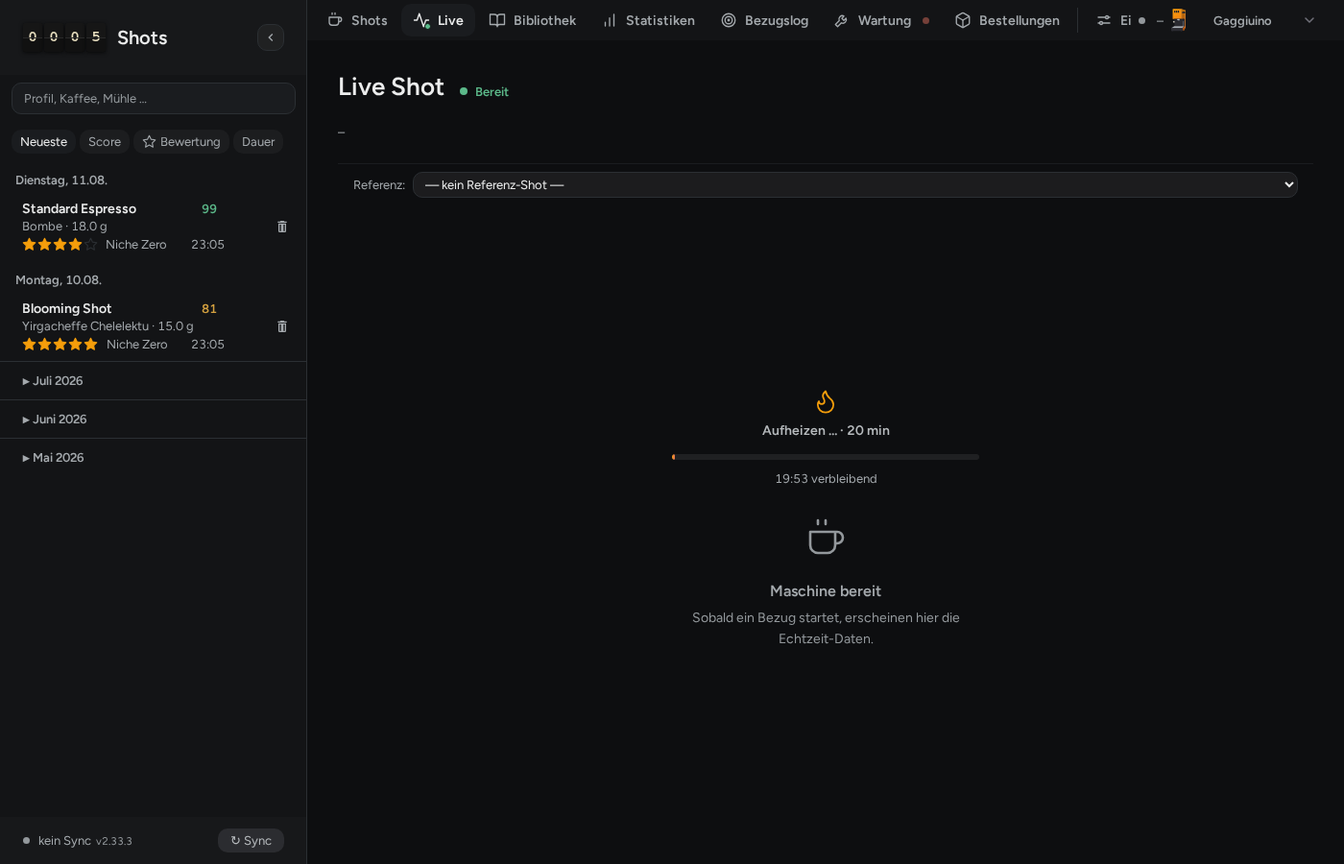
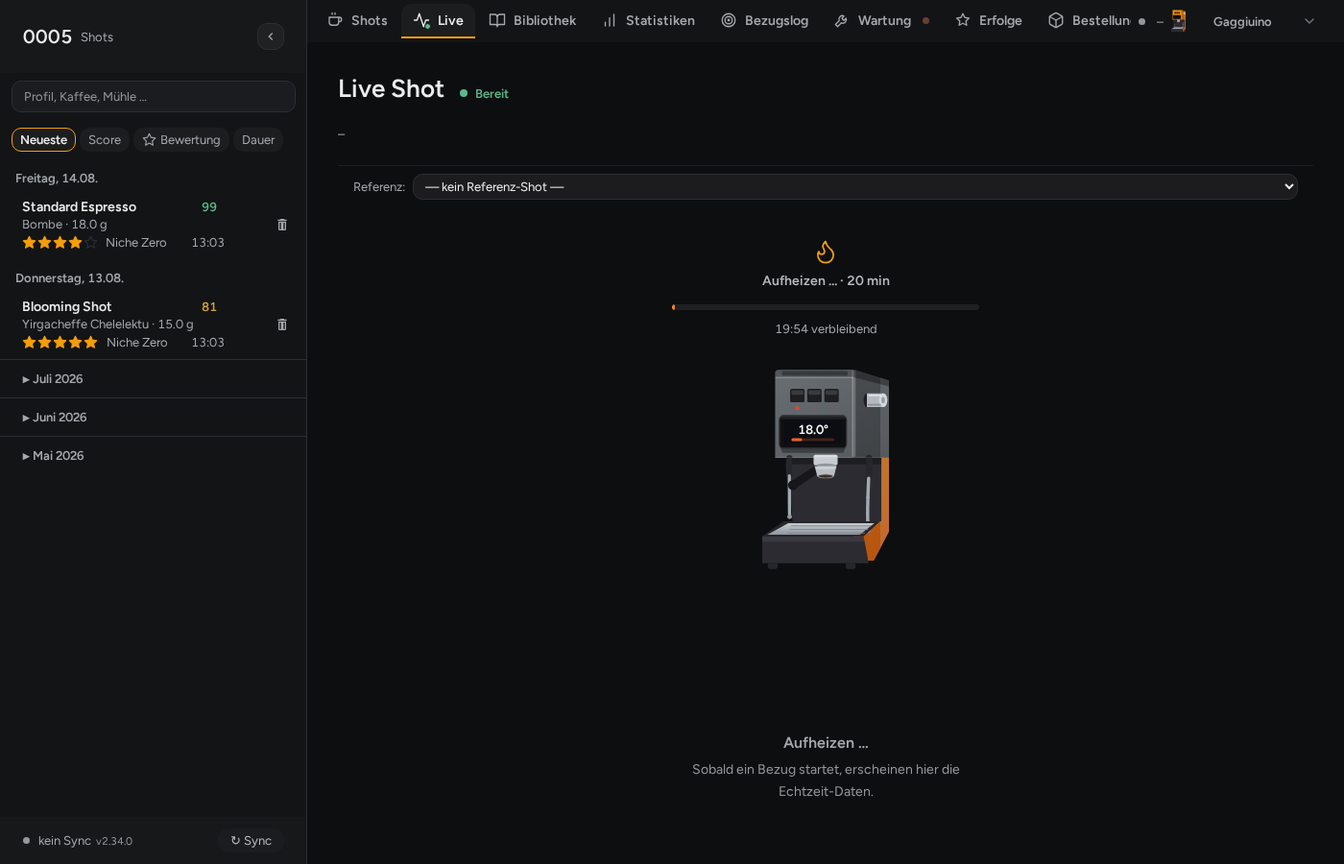
Release v2.34.0: finalize CHANGELOG, bump version, refresh docs/screenshots/dev-stats
Version bump is minor (2.33.4 -> 2.34.0), not the patch bump the last
individual commit left in package.json/config.yaml/constants.js: the
Unreleased section folds in the whole "Instrument" redesign round
(#811-814, #816-817, #820, #822-823) plus the standalone-Docker-install
release (#764, shipped in-repo as 2.33.0-2.33.3 but never tagged) --
substantial new user-facing capability, not a pure fix, per this repo's
own versioning rule.

- CHANGELOG.md: close out [Unreleased] as [2.34.0], open a fresh
  Unreleased section
- lib/whats-new.js: fold the 2.33.4 entry into a 2.34.0 highlight set
  covering the redesign + achievements
- README.md: add the Achievements feature row
- DOCS.md/DOCS.de.md: add the Achievements section + Features-table row
  (bilingual, in sync)
- docs/screenshots/*.png: regenerated against the shipped UI
- scripts/dev-stats.mjs: bump git()'s execSync maxBuffer from Node's 1 MB
  default to 64 MB -- this round's unusually long commit bodies made
  `git log --shortstat` exceed it and fail with ENOBUFS
- DEVELOPMENT.md, docs/dev-stats/*.png: regenerated (companion repos
  verified to have no unpushed commits first, so nothing held-back leaks
  into the public stats)

diff --git a/gaggiuino-local-profiler/lib/whats-new.js b/gaggiuino-local-profiler/lib/whats-new.js
@@ -18,8 +18,10 @@
 // caps it defensively so an out-of-order manual edit can't silently show
 // entries in the wrong order or let the list grow unbounded.
 const WHATS_NEW_ENTRIES = [
-    { version: '2.33.4', date: '2026-08-16', highlights: [
-        'Sidebar shot counter flattened from a mechanical split-flap odometer to plain text, matching the app\'s current design.',
+    { version: '2.34.0', date: '2026-08-16', highlights: [
+        '"Instrument" redesign: a cooler graphite look throughout the app, drawn icons in place of emoji, and a calmer, less boxy shot view with a guided metric line and a plain-text verdict.',
+        'Added the achievement stamp card: a browsable catalogue of 54 badges across 7 categories, unlocked automatically as you brew.',
+        'The machine icon (Settings, topbar, Live view) now draws the right body for your machine type, and toggle buttons/the sidebar shot counter got a lighter, less mechanical look.',
     ] },
     { version: '2.33.3', date: '2026-08-11', highlights: [
         'Live view updates faster on a fresh sensor reading: a WebSocket or MQTT sample now pushes to the Live tab instantly instead of waiting for the next 1-second poll.',

diff --git a/gaggiuino-local-profiler/lib/constants.js b/gaggiuino-local-profiler/lib/constants.js
@@ -3,7 +3,7 @@ if (typeof File === 'undefined') {
     try { global.File = require('buffer').File; } catch { global.File = class File {}; }
 }
 
-const GLP_VERSION  = '2.33.4';
+const GLP_VERSION  = '2.34.0';
 const DEFAULT_PORT = 8099;
 
 const DATA_DIR             = '/data';

diff --git a/gaggiuino-local-profiler/DOCS.de.md b/gaggiuino-local-profiler/DOCS.de.md
@@ -287,6 +287,7 @@ Eine Alternative zur obigen WebSocket-Verbindung, um Live-Sensor-/Systemdaten vo
 | **Bibliothek** | Kaffeebohnen- und Mühlenkatalog plus **Rezepte**-Tab. Bohnenkarten zeigen die **Herkunft** als eigene Eyebrow-Zeile über dem Bohnennamen (serifenbetont beim Crema-Akzent-Theme — siehe [Farbschema (Akzentfarbe)](#farbschema-akzentfarbe)), Geschmacks-Tags als zurückhaltende Outline-Pills, und einen kleinen proportionalen **Restbestand-Balken** neben der bestehenden Gramm-Angabe. Bohnenkarten zeigen außerdem eine **Sterne-Bewertung** (Mittelwert aus den Shot-Bewertungen dieser Bohne, rein berechnet — kein manuelles Feld), eine **beste Mühlen+Mahlgrad-Kombination** (z. B. „Beste Kombi: Niche Zero @ 18 · Ø Score 92" — berechnet über den gesamten Shot-Verlauf der Bohne, gruppiert nach Mühle und Mahlgrad, angezeigt sobald mindestens 3 Shots dieselbe Kombination teilen, damit der Durchschnitt kein Zufallstreffer ist) und ein **Röstfrische-Badge** (Tage seit Röstung, eingefärbt nach Degassing-/Peak-/Fading-Fenster, aus dem Röstdatum der aktiven Packung — ausgeblendet sobald der Restbestand einer bestandsgeführten Bohne null erreicht). Bohnen unterstützen: **Herkunftsländer** (eines oder mehrere, aus einer Liste von Kaffeeanbauländern ausgewählt und als Chips mit Flagge und lokalisiertem Namen angezeigt — eine Bohne mit mehr als einem Herkunftsland ist ein Blend, mit optionalem prozentualem Gewichtungsanteil pro Land für die anteilige Aufteilung auf der Kaffee-Weltkarte in Statistiken), **Spezies** (Arabica / Robusta / Liberica / Blend — festes Dropdown, nur manuell erfassbar), eine **Speciality/Normal-Kategorie** (zweiwertiges Dropdown, nur manuell erfassbar, Standard „Normal" — erlaubt Nicht-Experten, die Bohnenliste der Bestellkarte nach Alltags- vs. ungewöhnlichen/hochwertigen Bohnen zu gruppieren), **Varietät/Sorte** (Bourbon, Geisha, Typica, Caturra, SL28, … mit Vorschlägen — getrennt von der Spezies, da z.B. Red Bourbon eine Sorte innerhalb von Arabica ist), **Aufbereitung** (Washed, Natural, Honey, Anaerobic, … mit Vorschlägen), **Geschmacksnoten als Tags** (Chips-Eingabe; Importe befüllen sie automatisch, das Notizfeld bleibt für persönliche Anmerkungen — siehe auch das **Aroma-Rad** unten), **Röstung** (Espresso / Filter / Omni, aus Shop-Tags importiert), **Anbau-Region** (Freitext, serverseitig via Nominatim zu Kartenkoordinaten geocodet), ein beim Import einmalig heruntergeladenes **Produktbild** (als Thumbnail und im Aroma-Rad angezeigt, ein Klick darauf öffnet es als Vollbild-Lightbox wie bei Shot-Fotos) — oder manuell hochgeladen, falls der automatische Download fehlschlägt (öffnet denselben Zoom/Pan-Zuschnitt-Editor wie bei Shot-Fotos), optionale Felder für **Höhenlage, Importeur, Ernte, Preis, Produzent und Zertifizierung** (nur angezeigt wenn gesetzt; Höhenlage/Importeur/Ernte/Preis werden importiert, wo der Shop sie liefert), eine manuelle **Zubereitungsempfehlung** (Temperatur, Verhältnis, Zeit, Hinweis — nur angezeigt wenn gesetzt; keine Import-Quelle liefert das als strukturierte Daten), Entkoffeiniert-Flag, Chargen-Tracking (Röstdatum — über ein natives Datumsfeld mit „Heute"-Kurzwahl erfasst — Anfangsgewicht und optionale **Chargennummer** pro Packung, nur manuell erfassbar, Verbrauch pro Packung und Gesamtverbrauch über alle Packungen), **Einfrieren einzelner Portionen** (eine oder mehrere Portionen einer Packung mit Grammangabe, Portionsanzahl und optionalem vergangenem Einfrierdatum einfrieren; die Röstfrische-Uhr einer eingefrorenen Portion pausiert für die Dauer des Einfrierens und läuft nach dem Auftauen weiter — bei einer Mehr-Portionen-Charge wird jeweils eine Portion einzeln aufgetaut statt die ganze Charge auf einmal abzuschließen, oder Anzahl/Gewicht/Einfrierdatum einer Portion nachträglich korrigieren, falls falsch erfasst; das Frost-Badge zeigt das Einfrierjahr sowie verbleibende/gesamte Portionsanzahl), ein manueller **Aktiv/Inaktiv-Umschalter** (Auge/Auge-durchgestrichen-Button neben Bearbeiten/Löschen), um eine Bohne aus der Bestellkarten-Auswahl auszuschließen, ohne sie zu löschen oder den Bestand anzurühren — unabhängig vom Bestand wird die Karte einer deaktivierten Bohne abgedunkelt und mit einem „Deaktiviert"-Badge versehen, bleibt aber vollständig sichtbar und bearbeitbar, URL-Import von kaffeebraun.com, hoppenworth-ploch.de und elbgold.com (jeweils einzeln deaktivierbar) plus generischem Fallback (Shopify/JSON-LD/Webseiten-Metadaten) für jeden anderen Shop, mit Einstellungen-Panel für eigene Shopify-Shop-Domains, Barcode-Scan, QR-Code. Mühlen unterstützen optional **Mahlwerk-Typ** (mit Vorschlägen), **Kaufdatum** (natives Datumsfeld), ein direkt hochgeladenes **Foto** (zugeschnitten über denselben Zoom/Pan-Editor, ein Klick auf das Thumbnail öffnet es als Vollbild-Lightbox wie bei Shot- und Bohnenfotos) und eine **Mahlscheiben-Verschleiß-Anzeige**: eine Zeile „🔩 N Shots · X g/kg seit letztem Mahlscheiben-Wechsel" (über annotierte Shots nach Mühlenname gematcht, Dosis summiert) mit einem „Mahlscheiben erneuert"-Button zum Zurücksetzen des Zählers — getrennt vom kalender-/shot-basierten Reinigungs-Wartungssystem, da Mahlscheiben durch kumulativen Durchsatz stumpf werden, nicht durch Kalenderzeit. Rezepte speichern Brühmethode (Espresso, AeroPress, V60, French Press, Moka, Cold Brew), Dosis, Ausbeute, Zeit, Wassertemperatur, Wassermenge, Eismenge, Mahlgrad, Quellenlink und Workflow-Schritte. Zwei weitere Tabs, **Siebe** und **Puck Screens**, katalogisieren deinen Sieb- und Puck-Screen-Bestand nach demselben Liste-plus-Bearbeiten/Löschen-plus-Foto-Muster wie Mühlen: Siebe tragen einen **Wandtyp** (solid/precision/dual-wall) und eine **Form** (rund/D-Form); Puck Screens tragen eine **Dicke** — beides als feste Dropdown-Felder. Beide lassen sich im Shot-Annotationsbereich neben der Bohnenauswahl mit einem Shot verknüpfen, nach demselben ID-basierten Prinzip wie bei Bohnen, und erscheinen dann zusammen mit dem Bohnen-/Mühlen-Chip auf der Rezeptkarte des Shots, im CSV-Export und im `.shot`-Label-Export. Ein **Profile**-Tab verwaltet Gaggiuino-Maschinenprofile — siehe [Maschinenprofil-Editor](#maschinenprofil-editor) unten. |
 | **Einwählen** | Einwähl-Assistent: Ziel-Shot mit aktuellen Versuchen vergleichen. Der Mahlgrad-Hinweis in der Shot-Ansicht markiert zusätzlich Brew-Ratios außerhalb des klassischen Espresso-Fensters (1:1.8–2.2), wenn die Dauer selbst passt. Ein **geführter Einwähl-Assistent** — siehe [unten](#geführter-einwähl-assistent) — führt Schritt für Schritt durch den gesamten Kreislauf aus Mahlgrad einstellen → Shot ziehen → Auswertung → nächster Mahlgrad. |
 | **Wartung** | Ein Dashboard-Überblick: **Summenkacheln** (Anzahl Fällig / Bald fällig / OK plus Protokoll-Einträge dieses Jahr) und ein **„Als Nächstes"-Banner**, das die dringendste fällige Aufgabe samt Maschine nennt, mit direktem Erledigt-Button (nur sichtbar, wenn tatsächlich etwas fällig ist). Fünf Maschinenwartungs-Erinnerungen (Entkalken, Backflush, Gruppenkopf-Service, Dichtungen & Siebe, Wasserfilter) plus ein eigener Reinigungsplan pro Mühle, dargestellt als kompakte Kacheln (Status-Pill, Fortschrittsbalken, Maschinen-Tag). In [Multi-Maschinen](#multi-maschinen-modus-v200)-Setups scopt ein **Maschinenfilter** (lokal für diese Ansicht, unabhängig vom Topbar-Umschalter) das gesamte Dashboard auf eine Maschine oder „Alle" — Entkalken/Backflush/Gruppenkopf/Dichtungen werden **pro Maschine** geführt; Wasserfilter und Mühlenreinigung bleiben **global** („geteilt"-Tag, nur einmal angezeigt), da diese Ausrüstung tatsächlich maschinenübergreifend geteilt wird. Schwellenwert-Eingabe, Shots/Tage-Umschalter und die **geführte Anleitung** (Schritt-für-Schritt-Checkliste, die den Erledigt-Button erst freischaltet, wenn alle Schritte abgehakt sind) jeder Kachel liegen hinter einem „Details"-Ausklapper statt dauerhaft sichtbar zu sein. Unterhalb der Kacheln: ein **Wartungsprotokoll** als Tabelle (Datum, Aufgabe, Maschinen-Badge, Shot-Anzahl zum Zeitpunkt, Notiz), gefiltert nach dem gewählten Scope. Einträge entstehen automatisch beim „Jetzt erledigt"-Klick; vergangene Wartungen können per Formular (Aufgabe, Datum, Notizen) nachgetragen werden. Einzelne Einträge sind löschbar. Gespeichert in `/data/maintenance_log.json`. Ab Gaggiuino-Firmware-Build 7889b7d **synchronisieren sich Entkalken und Backflush zusätzlich automatisch mit dem nativen Wartungsprotokoll der Maschine**: meldet die Maschine ein neueres Entkalk-/Backflush-Ereignis als GLP zuletzt kannte, wird die Aufgabe automatisch als erledigt markiert (rückdatiert auf den echten Maschinen-Zeitpunkt) und auf der Kachel mit **„Auto"** gekennzeichnet — ältere Firmware bleibt unberührt. |
+| **Erfolge** | Die Stempelkarten-Ansicht — siehe [Erfolge (Stempelkarte)](#erfolge-stempelkarte) unten. |
 | **Bestellungen** | Barista-Backend für Bestellverwaltung *(erfordert `enable_orders: true`)*. Bestellannahme per Toggle ein-/ausschalten, Getränkemenü verwalten (Emoji + Name + optionale **Varianten** — entweder manuell eingetragen, automatisch aus der aktiven Bohnenbibliothek über den 🫘-Toggle, oder aus der aktiven Milchbibliothek über den 🥛-Toggle, gespeichert in `/data/menu.json`), eine optionale Milchmenge pro Bestellung (**ml**), die bei Bestellabschluss von der passenden Milch in der Bibliothek abgezogen wird — Milchsorten ohne Restbestand verschwinden aus der aktiven Liste, Live-Warteschlange mit automatisch vorgeschlagenem ETA basierend auf der aktuellen Warteschlangenlänge, und Verlauf einsehen. Bestellungen annehmen mit ETA-Auswahl (vorausgefüllt mit Warteschlangen-Schätzung) oder mit Freitext ablehnen. Kunden-Statistik-Panel zeigt Gesamtbestellungen und Auswertung pro Kunde. **Push-Benachrichtigungen** (einklappbare Sektion): vier unabhängige Bereiche — (1) **Benachrichtigungstypen**: ein Ein/Aus-Schalter pro bestellungsspezifischer automatischer Benachrichtigung (Kaffeebar geöffnet/geschlossen, neue Bestellung an Barista, Bestellstatus an Kunde) — die Schalter für Maschine-betriebsbereit und Bohnen-Bestand-niedrig sind in eine „Benachrichtigungen"-Karte auf der Haupt-Einstellungsseite umgezogen, da sie unabhängig davon auftreten, ob Bestellungen aktiviert sind; alle standardmäßig an, sodass sich das Verhalten einer bestehenden Installation erst ändert, wenn ein Schalter aktiv ausgeschaltet wird; (2) **Broadcast-Empfänger**: ein oder mehrere `notify.mobile_app_*`-Geräte auswählen, die eine Nachricht erhalten wenn Bestellungen geöffnet werden ("☕ geöffnet — Bestellungen über das Menü Kaffeebar aufgeben"; aufheiz-bewusst: "öffnet in ca. X Min." während der Aufheizphase) oder geschlossen werden ("🚫 geschlossen"); (3) **Barista-Benachrichtigung**: ein Gerät, das sofort eine Benachrichtigung erhält wenn eine neue Bestellung eingeht (Titel: Getränkename, Text: Kundenname + Notiz), wenn die Maschine fertig aufgeheizt ist ("☕ Maschine bereit") sowie einmal pro Packung wenn der Restbestand einer Bohne unter 100 g fällt ("🫘 Bohne fast leer"); (4) **Pro-Kunden-Zuordnung**: jedem HA-Nutzer ein Gerät zuweisen (alle `person.*` Entities werden angezeigt, plus Kunden aus dem Bestellverlauf) — dieses Gerät wird benachrichtigt wenn die eigene Bestellung angenommen, fertig oder abgelehnt wird. Erfordert `homeassistant_api: true` und die HA Companion App. Kundenbestellung über die [GLP Order Card](https://github.com/mxkissnr/glp-order-card). |
 
 ### Maschinenprofil-Editor
@@ -429,6 +430,10 @@ GLP hat einen eingebauten Theme-Wechsler (⚙ Einstellungen → Theme). Die Wahl
 ### Farbschema (Akzentfarbe)
 
 Unabhängig vom Hell/Dunkel-Umschalter bietet ⚙ Einstellungen → Farbschema sechs Akzent-Themes: **Amber** (Standard), **Ocean**, **Aurora**, **Ember**, **Forest** und **Crema**. Jedes hat eine eigene Dunkel- und Hell-Variante, kontrastgeprüft auf mindestens 4.5:1 für Text auf eigenem Hintergrund. **Crema** ist der Sonderfall — es färbt zusätzlich die neutrale Grau-Skala selbst warm ein (Espresso-Braun statt echtem Grau) statt nur die Akzentfarben umzufärben — und kombiniert das mit einer mitgelieferten Serifenschrift (Fraunces, SIL Open Font License, lokal ausgeliefert, kein externes Schrift-CDN), die ausschließlich für Bohnennamen in der Bibliothek-Ansicht und auf der teilbaren Shot-Karte verwendet wird; alle numerischen/Daten-Anzeigen bleiben unabhängig vom Akzent-Theme in der regulären serifenlosen Schrift.
+
+### Erfolge (Stempelkarte)
+
+Eine eigene **Erfolge**-Ansicht zeigt eine Pappkarte im Stempelkarten-Look: 54 Abzeichen in 7 Kategorien (Grundlagen, Handwerk, Bohnen, Ausdauer, Pflege, Haus und eine geheime Kategorie), die automatisch beim Brühen freigeschaltet werden — kein manuelles Einlösen nötig. Die Freischaltung ist ereignisgesteuert (Prüfung direkt nach einem Shot, einem Wartungseintrag oder einer Bibliotheksänderung) plus ein einmaliger rückwirkender Durchlauf über die bestehende Historie beim ersten Öffnen der Ansicht, damit ein Update nicht die bisherigen Shots ungezählt lässt. Jedes Feld ist identisch vorgedruckt; nur der Stempel — eine raue Tintenmarkierung, je Abzeichen leicht und fest schräg verdreht — unterscheidet erreichte von nicht erreichten Abzeichen. Geheime Abzeichen zeigen bis zur Freischaltung nur ein "?"; Name und Beschreibung erreichen den Browser vorher gar nicht. Eine Kategorie mit vollständig freigeschalteten Abzeichen erhält einen diagonalen, datierten "Vollständig"-Aufdruck. Es gibt keine Stufen, Ränge oder Punktewertung — es ist ein Andenken, keine Bestenliste. Erfolge gelten pro Installation, nicht pro Maschine: Multi-Maschinen-Setups teilen sich eine gemeinsame Sammlung.
 
 ### Neuigkeiten (In-App-Changelog, v2.28.0)
 

diff --git a/gaggiuino-local-profiler/DOCS.md b/gaggiuino-local-profiler/DOCS.md
@@ -284,6 +284,7 @@ An alternative to the WebSocket connection above for getting live sensor/system 
 | **Library** | Coffee bean and grinder catalogue plus a **Recipes** tab. Bean cards show the **origin** as its own eyebrow line above the bean name (serif under the Crema accent theme — see [Accent color scheme](#accent-color-scheme)), flavor tags as quiet outline pills, and a small proportional **stock-remaining bar** next to the existing gram figure. Bean cards also show a **star rating** (average of that bean's shot ratings, purely computed — no manual field), a **best grinder+grind-setting combo** (e.g. "Best combo: Niche Zero @ 18 · Ø score 92" — computed across the bean's whole shot history, grouped by grinder and grind setting, shown once at least 3 shots share a combo so the average isn't a fluke) and a **roast freshness badge** (days since roast, colored by degassing/peak/fading window, from the active bag's roast date — hidden once a stock-tracked bean's remaining stock hits zero). Beans support: **origin countries** (one or more, picked from a list of coffee-growing countries and shown as chips with flag and localized name — a bean with more than one origin is a blend, with an optional per-country weighting percent used to split its shots proportionally on the Analytics world map), **species** (Arabica / Robusta / Liberica / Blend — a constrained dropdown, manual-entry only), a **speciality/normal category** (a two-option dropdown, manual-entry only, defaults to normal — lets non-expert users group the order menu's bean list by everyday vs. unusual/high-end beans), **variety/cultivar** (Bourbon, Geisha, Typica, Caturra, SL28, … with suggestions — distinct from species, since e.g. Red Bourbon is a cultivar within Arabica), **processing** (Washed, Natural, Honey, Anaerobic, … with suggestions), **tasting notes as tags** (chips input; imports fill them automatically, notes stays free for personal remarks — see also the **flavor wheel** below), **roast profile** (espresso / filter / omni, imported from shop tags), **growing region** (free text, geocoded server-side via Nominatim into map coordinates), a **product image** downloaded once from the shop on import (shown as a thumbnail and in the flavor wheel, clicking it opens it fullscreen in the same lightbox used for shot photos) — or uploaded manually if the automatic download fails (opens the same zoom/pan crop editor as shot photos), optional **altitude, importer, harvest, price, producer and certification** fields (shown only when set; altitude/importer/harvest/price are imported where the shop provides them), a manual **brew recommendation** (temperature, ratio, time, note — shown only when set; no import source provides this as structured data), decaf flag, bag/batch tracking (roast date — entered via a native date picker, with a "today" shortcut — initial weight and an optional **batch/lot number** per bag, manual-entry only, consumption tracked per bag and total across all bags), **frozen/single-dose portion tracking** (freeze one or more portions of a bag with a gram amount, a portion count and an optional past freeze date; a frozen portion's share of the roast-age clock pauses while it's frozen, resuming once thawed — thaw one portion at a time from a multi-portion batch rather than closing the whole batch out at once, or correct a portion's count/weight/freeze date after the fact if it was logged wrong; frozen badges show the freeze year plus the remaining/total portion count), a manual **enable/disable toggle** (eye/eye-off button next to edit/delete) to exclude a bean from the order card's bean picker without deleting it or touching its stock — independent of stock, a disabled bean's card is dimmed and shows a "Disabled" badge but stays fully visible and editable, URL import from kaffeebraun.com, hoppenworth-ploch.de and elbgold.com (each individually toggleable) plus a generic fallback (Shopify/JSON-LD/webpage metadata) for any other shop, with a settings panel to add your own Shopify shop domains, barcode scan, QR code. Grinders support an optional **burr type** (with suggestions), **purchase date** (native date picker), a directly-uploaded **photo** (cropped via the same zoom/pan editor, clicking the thumbnail opens it fullscreen in the same lightbox used for shot and bean photos), and **burr wear tracking**: a "🔩 N shots · X g/kg since last burr swap" line (matched against annotated shots by grinder name, summing dose) with a "Burrs replaced" button to reset the counter — separate from the calendar/shot-count-based cleaning maintenance system, since burrs dull with cumulative throughput rather than calendar time. Recipes store brew method (Espresso, AeroPress, V60, French Press, Moka, Cold Brew), dose, yield, time, water temperature, water amount, ice amount, grind size, source URL and step-by-step workflow. Two further tabs, **Baskets** and **Puck Screens**, catalogue your basket and puck-screen inventory the same list-plus-edit/delete-plus-photo way grinders do: baskets carry a **wall type** (solid/precision/dual-wall) and **shape** (round/D-shape); puck screens carry a **thickness** — both as constrained dropdown fields. Either can be linked to a shot from the shot annotation panel next to the bean picker, the same ID-based linkage beans already use, and shows up alongside the bean/grinder chip on the shot's recipe card, in CSV export and in `.shot` label export. A **Profiles** tab manages Gaggiuino machine profiles — see [Machine profile editor](#machine-profile-editor) below. |
 | **Dial-in** | Dial-in assistant: compare a target shot with recent attempts. The shot view's grind advice additionally flags brew ratios outside the classic espresso window (1:1.8–2.2) when the duration itself is fine. A **Guided Dial-In wizard** — see [below](#guided-dial-in-wizard) — walks through the whole set-grind → pull-shot → evaluate → next-grind loop step by step. |
 | **Maintenance** | A dashboard-style overview: **summary tiles** (due / soon / OK counts plus log entries this year) and an **"Als Nächstes" banner** naming the single most-overdue task and machine with an inline done-button (only shown when something is actually due). Five machine maintenance reminders (descaling, backflush, group head service, gaskets & screens, water filter) plus a per-grinder cleaning schedule, shown as compact tiles (status pill, progress bar, machine tag). In [multi-machine](#multi-machine-v200) setups, a **machine filter segment control** (local to this view, independent of the topbar switcher) scopes the whole dashboard to one machine or "all" — descaling/backflush/group head/gaskets are tracked **per machine**; water filter and grinder cleaning remain **global** ("geteilt"/"shared" tag, shown once) since that equipment is genuinely shared across machines. Each tile's threshold input, shots/days toggle and **guided walkthrough** (a step-by-step checklist that unlocks the done button once every step is ticked) live behind a "Details" expand instead of always-visible controls. Below the tiles: a **Maintenance Log** table (date, task, machine badge, shot count at time, notes) filtered to whichever scope is selected. Entries are created automatically when marking a task done; past events can be back-filled via the "Add entry" form (task, date, notes). Each entry can be deleted. Stored in `/data/maintenance_log.json`. On Gaggiuino firmware build 7889b7d+, **descaling and backflush also auto-sync from the machine's own native Service Log**: if the machine reports a newer descale/backflush event than GLP last saw, the task is marked done automatically (backdated to the machine's real timestamp) and tagged **"Auto"** on the tile — older firmware is unaffected. |
+| **Achievements** | The stamp-card view — see [Achievements (stamp card)](#achievements-stamp-card) below. |
 | **Orders** | Barista order management backend *(requires `enable_orders: true`)*. Toggle order acceptance on/off, manage the drink menu (emoji + name + optional **variants** — either manually entered strings, automatically sourced from the active bean library via the 🫘 toggle, or from the active milk library via the 🥛 toggle, persisted in `/data/menu.json`), an optional milk amount per order (**ml**) that is deducted from the matching milk in the library on order completion — milks with no stock left drop out of the active list, see the live order queue with auto-suggested ETAs based on current queue length, and history. Accept orders with an ETA picker (pre-filled with queue estimate), or decline with a free-text reason. Customer statistics panel shows total orders and per-customer breakdown. **Push notifications** (collapsible section): four independent sub-sections — (1) **Notification types**: one on/off toggle per Orders-specific automatic notification (shop opened/closed broadcast, new order to barista, order status to customer) — preheat-ready and low-stock bean warning toggles moved to a "Notifications" card on the main Settings page since they fire regardless of Orders being enabled; all default to on, so an existing install's notification behavior is unchanged until a toggle is explicitly turned off; (2) **Broadcast recipients**: select one or more `notify.mobile_app_*` devices that receive a broadcast when orders open ("☕ open — order via the Kaffeebar menu"; preheat-aware: "opens in ~X min" while warming up) or close ("🚫 closed"); (3) **Barista notification**: one device that is notified instantly when any new order is placed (title: drink name, body: customer + note), when the machine finishes warming up ("☕ Machine ready — Warm-up complete — ready to brew"), and once per bag when a bean's remaining stock drops below 100 g ("🫘 Bean running low"); (4) **Per-customer mapping**: assign a specific device to each HA user (all `person.*` entities are listed, plus anyone who has already placed an order) — that device is notified when their individual order is accepted, completed, or declined. Requires `homeassistant_api: true` and the HA Companion app. Customer-facing order placement is handled by the [GLP Order Card](https://github.com/mxkissnr/glp-order-card). |
 
 ### Machine profile editor
@@ -426,6 +427,10 @@ GLP has a built-in theme toggle (⚙ Settings → Theme). The choice is saved in
 ### Accent color scheme
 
 Independent of the Dark/Light toggle, ⚙ Settings → Color scheme offers six accent themes: **Amber** (default), **Ocean**, **Aurora**, **Ember**, **Forest** and **Crema**. Each has its own dark and light variant, contrast-checked to a ≥4.5:1 floor for text on its own background. **Crema** is the odd one out — it also warms the neutral grey scale itself (espresso-brown instead of true grey) rather than only recoloring accents — and pairs with a bundled serif display font (Fraunces, SIL Open Font License, served locally, no external font CDN) used exclusively for bean names in the Bibliothek view and on the shareable shot card; every numeric/data display stays in the regular sans-serif font regardless of accent theme.
+
+### Achievements (stamp card)
+
+A dedicated **Achievements** view shows a printed-cardboard "stamp card": 54 badges across 7 categories (basics, craft, beans, endurance, care, house and a secret category), each unlocked automatically as you brew — no manual claiming. Unlocking is event-driven (checked right after a shot, maintenance entry or library change) plus a one-time retroactive pass over your existing history the first time the view loads, so upgrading doesn't leave earlier shots uncounted. Every badge field is pre-printed identically; only the stamp — a rough ink mark, slightly askew at a fixed angle per badge — distinguishes earned from unearned. Secret badges show only a "?" until unlocked; their name and description never reach the browser before that. A category with every badge earned gets a diagonal, dated "Full" overprint. There is no level, rank or point score — it's a keepsake, not a leaderboard. Achievements are per-install, not per-machine: multi-machine setups share one collection.
 
 ### What's New (in-app changelog, v2.28.0)
 

diff --git a/DEVELOPMENT.md b/DEVELOPMENT.md
@@ -1,36 +1,36 @@
 # Development Stats
 
-Generated 2026-08-11 by `scripts/dev-stats.mjs`. Re-run it any time to refresh these numbers — they are computed live from git history, not hand-maintained.
+Generated 2026-08-16 by `scripts/dev-stats.mjs`. Re-run it any time to refresh these numbers — they are computed live from git history, not hand-maintained.
 
 ## Timeline
 
-The GLP ecosystem (this app + 3 companion repos) has been in development since **2026-05-20** — **83 days** as of the last commit (2026-08-10).
+The GLP ecosystem (this app + 3 companion repos) has been in development since **2026-05-20** — **89 days** as of the last commit (2026-08-16).
 
 | Repo | First commit | Last commit | Commits | Claude co-authored |
 |---|---|---|---|---|
-| gaggiuino-local-profiler | 2026-05-20 | 2026-08-10 | 928 | 672 (72%) |
-| glp-integration | 2026-05-22 | 2026-08-10 | 173 | 107 (62%) |
-| glp-lovelace-card | 2026-05-24 | 2026-08-09 | 135 | 98 (73%) |
-| glp-order-card | 2026-05-25 | 2026-08-09 | 108 | 75 (69%) |
-| **Combined** | **2026-05-20** | **2026-08-10** | **1344** | **952 (71%)** |
+| gaggiuino-local-profiler | 2026-05-20 | 2026-08-16 | 1024 | 738 (72%) |
+| glp-integration | 2026-05-22 | 2026-08-16 | 189 | 110 (58%) |
+| glp-lovelace-card | 2026-05-24 | 2026-08-16 | 161 | 114 (71%) |
+| glp-order-card | 2026-05-25 | 2026-08-16 | 91 | 53 (58%) |
+| **Combined** | **2026-05-20** | **2026-08-16** | **1465** | **1015 (69%)** |
 
 ![Commits per repo](docs/dev-stats/commits-per-repo.png)
 
-Combined line changes (insertions + deletions across all commits): **340.188**, of which **255.666** landed in Claude-co-authored commits.
+Combined line changes (insertions + deletions across all commits): **359.663**, of which **270.863** landed in Claude-co-authored commits.
 
 Commits without a Claude co-author line are presumed human-only (manual fixes, merges, config tweaks) — not independently verified.
 
 ## Hours of development (lower-bound estimate)
 
-Clustering each repo's commit timestamps into working sessions — commits within 2h of each other join the same session, and each session gets a 30-minute lead-in credited ahead of its first commit — gives a combined **359.0 hours** across all four repos.
+Clustering each repo's commit timestamps into working sessions — commits within 2h of each other join the same session, and each session gets a 30-minute lead-in credited ahead of its first commit — gives a combined **395.7 hours** across all four repos.
 
 | Repo | Hours (session-clustered) |
 |---|---|
-| gaggiuino-local-profiler | 214.6 |
-| glp-integration | 55.7 |
-| glp-lovelace-card | 47.6 |
-| glp-order-card | 41.1 |
-| **Combined** | **359.0** |
+| gaggiuino-local-profiler | 236.3 |
+| glp-integration | 61.0 |
+| glp-lovelace-card | 55.3 |
+| glp-order-card | 43.1 |
+| **Combined** | **395.7** |
 
 This is a **lower-bound estimate derived from git commit timestamps only**, not measured time — it undercounts real work because a long AI-agentic session (orchestration, agent dispatch, review between infrequent commits) can run for hours between commits.
 
@@ -38,11 +38,11 @@ This is a **lower-bound estimate derived from git commit timestamps only**, not 
 
 | Model | Commits |
 |---|---|
-| Claude Sonnet 5 | 486 |
+| Claude Sonnet 5 | 508 |
 | Claude Sonnet 4.6 | 348 |
+| Claude Opus 5 | 58 |
 | Claude Opus 4.8 | 47 |
 | Claude Fable 5 | 40 |
-| Claude Opus 5 | 17 |
 | Claude | 11 |
 | Claude Haiku 4.5 | 3 |
 

diff --git a/README.md b/README.md
@@ -87,6 +87,7 @@ More in [`docs/screenshots/`](gaggiuino-local-profiler/docs/screenshots/) (Dial-
 | ⇄ | **Compare Mode** | Overlay two shots side by side |
 | 👻 | **Ghost Curve & Delta Chips** | When an earlier shot exists with the same profile on the same machine, the shot detail auto-compares: a score delta chip on the verdict header, signed delta chips on pressure/flow/temp, and the previous shot's curves overlaid on the chart as a dashed ghost — independent of the explicit Compare Mode above |
 | 🏆 | **Shot Score** | Automatic 0–100 score (pressure, stability, duration, ratio, channeling), shown as a verdict-header score ring with a plain-language dial-in headline atop the shot detail; temperature/ratio target the bean's own brew recommendation from the Library when set, flagged with a target-icon badge on the header when it applies |
+| 🏅 | **Achievements** | A browsable stamp card of 54 badges across 7 categories, unlocked automatically as you brew (event-driven, with a retroactive pass over existing shot history on first load); locked secret badges show only a "?" until earned, and a fully-unlocked category gets a dated "Full" overprint — no level, rank or point score |
 | 📊 | **Analytics** | Score trend, shot calendar heatmap, bean stats, grinder/basket/puck screen stats, profile performance, interactive coffee world map (zoom/pan, per-bean origin points), a weekday × hour heatmap, a sortable bean ranking table (shots/score/last grind/trend), a machine comparison table (score/duration/temperature stability, once ≥2 machines are registered) and a per-bean dial-in progression chart |
 | 📊 | **P·Q Diagram** | Pressure vs. flow chart — reveals extraction signature |
 | ⚗ | **EY Calculation** | Extraction Yield % when TDS and dose are entered |

diff --git a/gaggiuino-local-profiler/CHANGELOG.md b/gaggiuino-local-profiler/CHANGELOG.md
@@ -1,5 +1,7 @@
 ## [Unreleased]
 
+## [2.34.0] – 2026-08-16
+
 ### Fixed
 - **Settings → Machines showed the same icon for a Gaggiuino and a GaggiMate machine.** The list, topbar switcher and add/edit preview still drew the old pre-redesign single-body icon; they now render the same rectangular-panel vs. round-puck bodies the Live view already used. Closes #822
 - **The sidebar's shot-count header is no longer a mechanical split-flap odometer** — boxed digits, monospace font, drop-shadow and flip animation replaced with plain text (bold count, small muted label), matching the redesign prototype's own literal markup. #823
